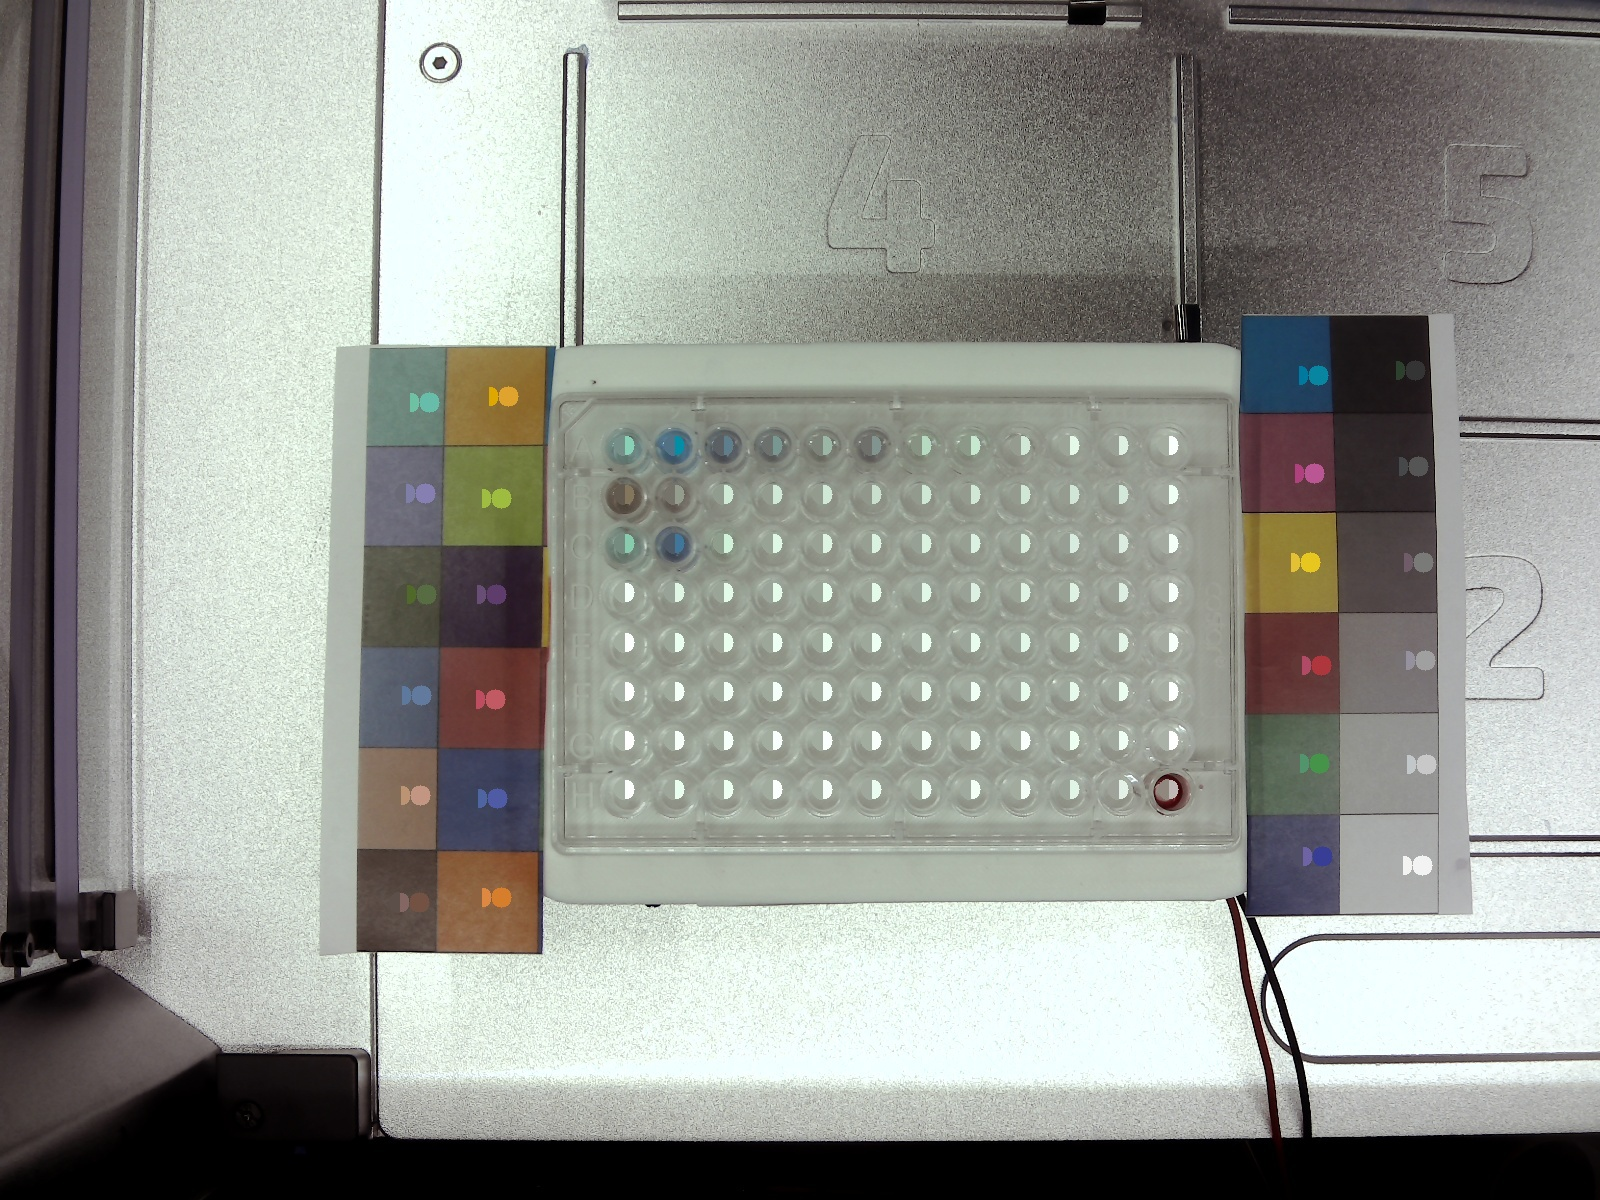
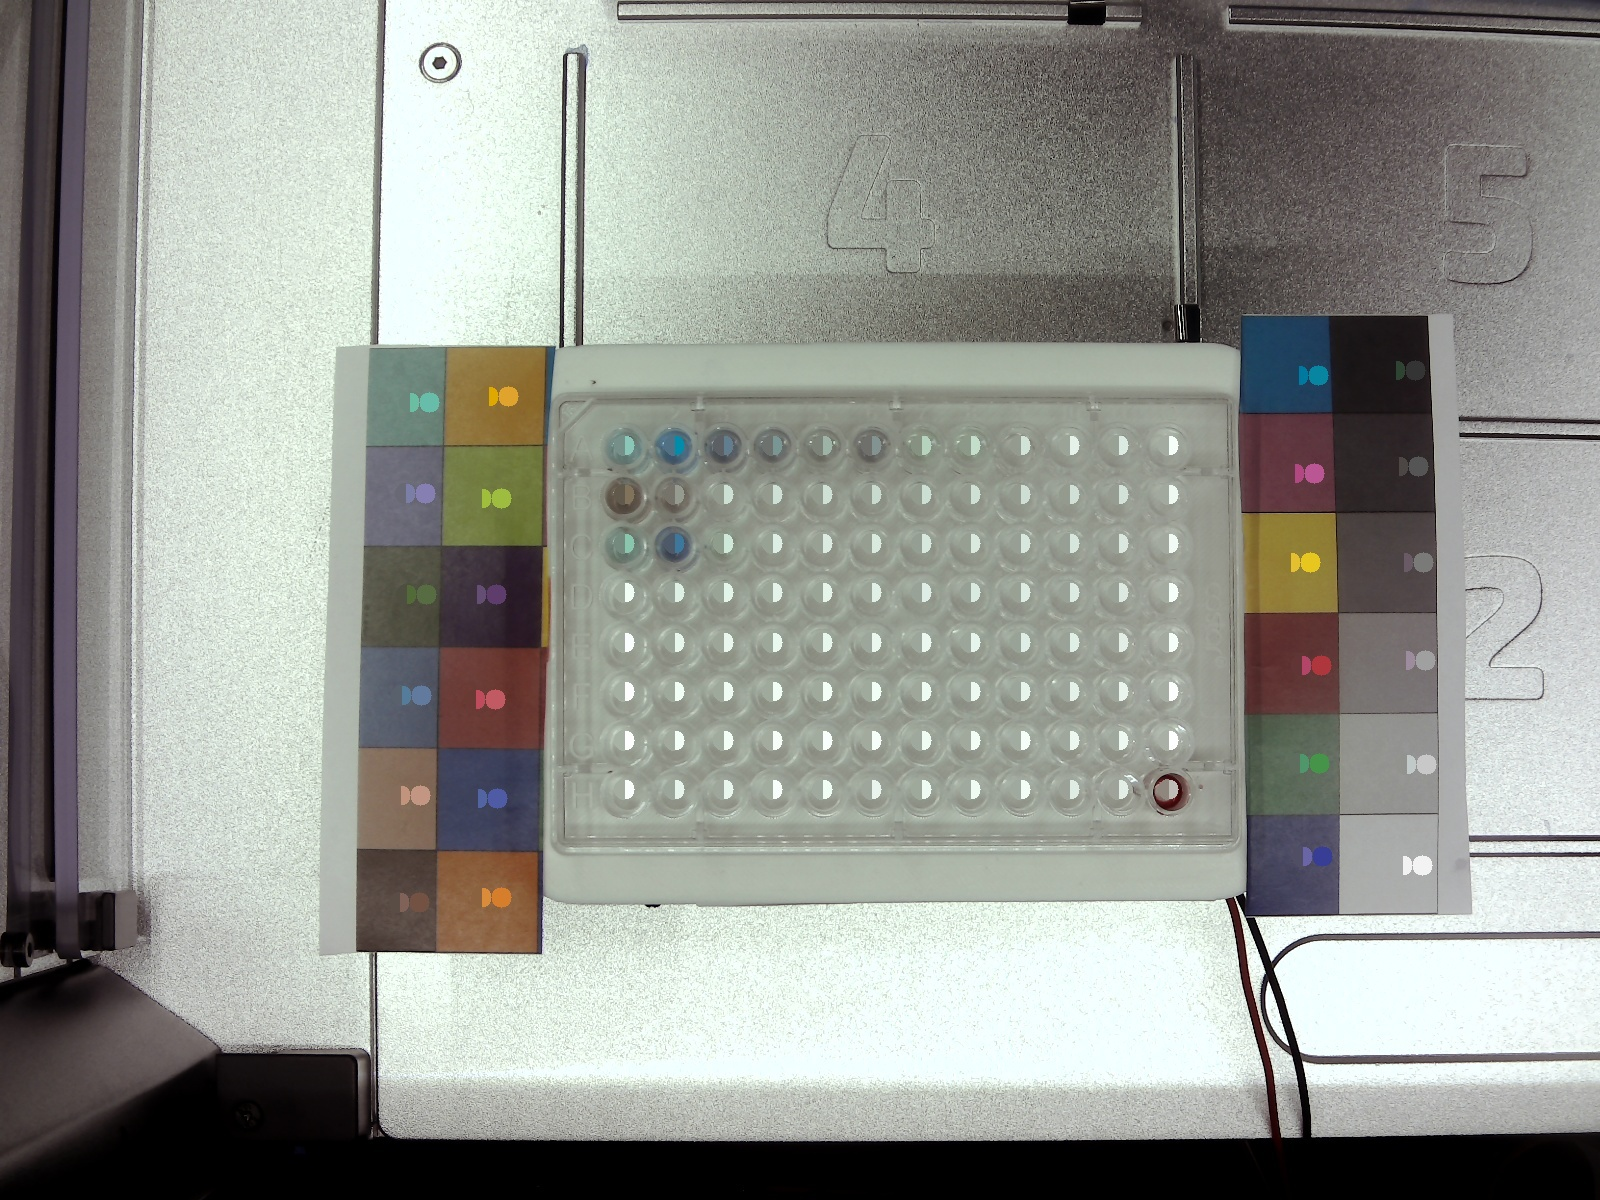
update camera step

diff --git a/camera_w_calibration.py b/camera_w_calibration.py
@@ -39,7 +39,10 @@ def srgb2lin(s: np.ndarray) -> np.ndarray:
 
 def lin2srgb(l: np.ndarray) -> np.ndarray:
     """linear 0-1 → 8-bit sRGB."""
-    s = np.where(l <= 0.0031308, 12.92 * l, 1.055 * (l ** (1 / 2.4)) - 0.055)
+    l = np.clip(l, 0.0, 1.0)          # ← add this line
+    s = np.where(l <= 0.0031308,
+                 12.92 * l,
+                 1.055 * np.power(l, 1/2.4) - 0.055)
     return np.clip(s * 255, 0, 255)
 
 # ═════════════════════════════ PlateProcessor ═════════════════════════════
@@ -396,13 +399,6 @@ class PlateProcessor:
 
 # ═══════════════════════════════════ CLI ══════════════════════════════════
 if __name__ == "__main__":
-    # ap = argparse.ArgumentParser()
-    # ap.add_argument("--cam", type=int, default=1,
-    #                 help="camera index for cv2.VideoCapture()")
-    # ap.add_argument("--recalib", action="store_true",
-    #                 help="force calibration UI even if JSON exists")
-    # args = ap.parse_args()
-
-    corr = PlateProcessor().process_image(cam_index=1,
-                                          force_ui=True)
+    
+    corr = PlateProcessor().process_image(cam_index=1, force_ui=False)
     print("First corrected RGB (row 0):", corr[0])
